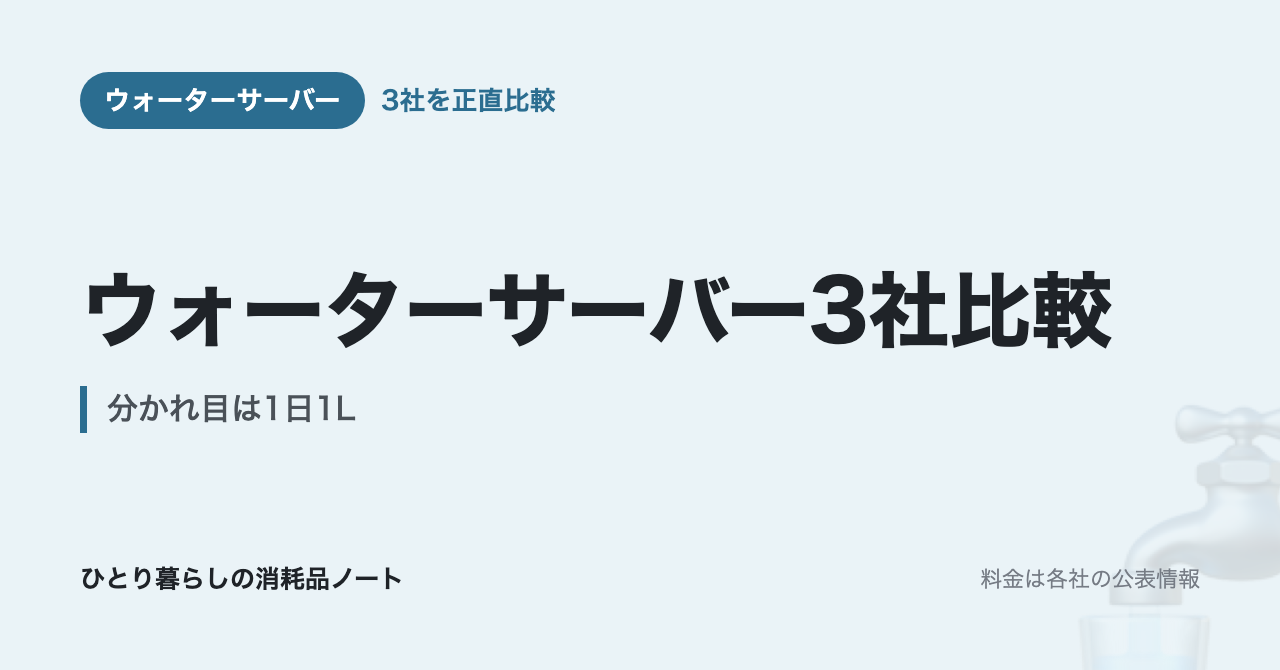
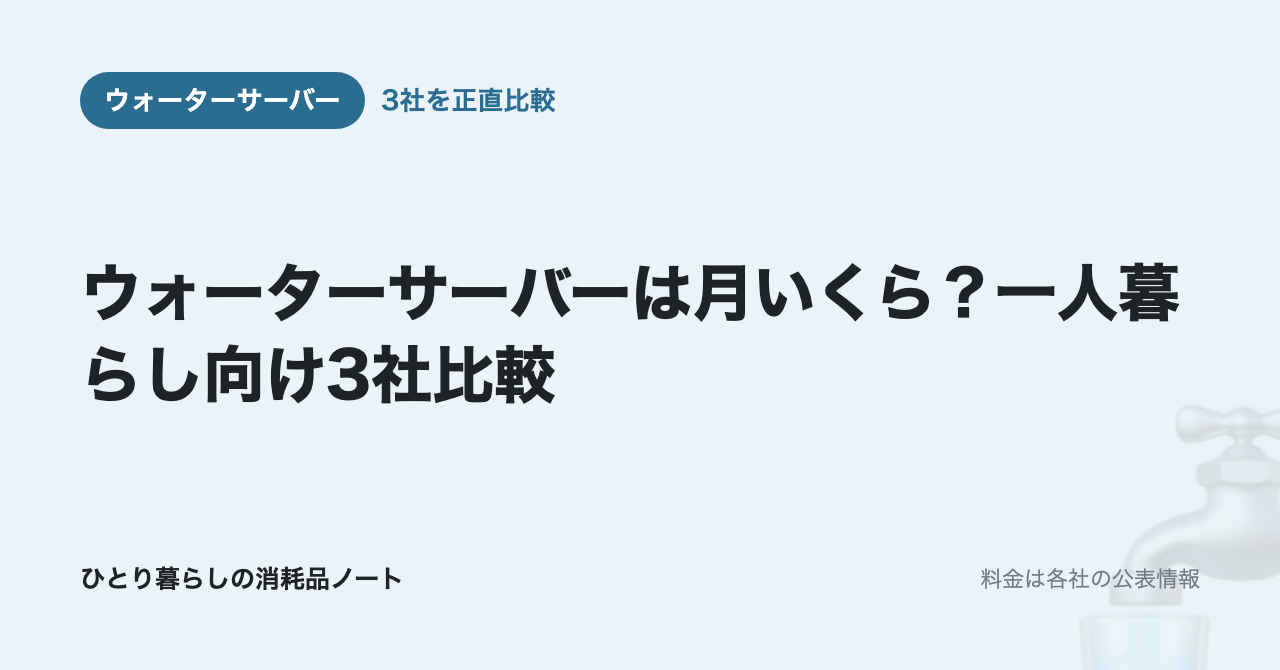
月額比較を書き直し版に差し替え（外部添削88点で合格）

Changed region(s): [[0.0625, 0.3881, 0.9375, 0.6567]]

diff --git a/content/water-server.md b/content/water-server.md
@@ -1,273 +1,157 @@
 ---
-title: ウォーターサーバー月額比較｜一人暮らしは1日1Lが分かれ目
+title: ウォーターサーバーは月いくら？一人暮らし向け3社比較
 description: >-
-  一人暮らしのウォーターサーバーは月額いくらか、3社で計算しました。飲み水だけなら月2,000円前後、料理にも使うと月4,400〜9,900円。水道水を注ぐ定額型とボトル配送型で、飲む量によって順位が入れ替わります。電気代・初期費用・解約費用も分けて載せています。
+  少量ならボトル配送、たくさん使うなら定額制が安くなります。3社の月額換算は、月12Lで約1,950円〜4,470円、1日2Lで約4,470〜9,860円（電気代・初期費用を除く）。電気代込みの試算と、途中でやめたときの費用も載せました。
 category: ウォーターサーバー
 date: '2026-08-14'
-updated: '2026-10-19'
+updated: '2026-10-24'
 keyword: ウォーターサーバー
 ---
 
-ウォーターサーバーの料金表は読みにくいです。水代・サーバーレンタル料・電気代・初期費用がばらばらに書いてあって、結局いくらかかるのかが分かりません。
+ウォーターサーバーの料金表は読みにくいです。水代・レンタル料・電気代・初期費用がばらばらに書いてあって、結局いくらかかるのかが分かりません。
 
-3社の条件を集めて年間コストに直したら、はっきりした答えが出ました。**分かれ目は1日1Lです。**
+先に結論です。**安い会社は、使う量とやめる時期で変わります。** 富士おいしい水とアクアバンクを比べると、1年でやめる場合は1日約1.5〜1.6L、2年使い切る場合は約1.0〜1.1Lが境目です。2年以上使うなら、1日約0.8L以上でLocca littaが富士おいしい水より安くなる試算です。
 
-- **1日1L以上飲むなら**、水道水を注ぐ**定額型**が安くなります
-- **それ以下なら**、使った分だけ払う**ボトル配送型**のほうが安くなります
+3社の料金を、使う量ごとに1か月あたりへ直しました。
 
-「飲み放題」は魅力的に見えますが、**たくさん飲む人だけが得をする仕組み**です。少量しか飲まない人には割高になります。以下、計算の中身を出します。
-
-## 一人暮らしのウォーターサーバーは、月額いくら？
-
-先に答えを出します。下の年間サービス料金を12で割った、1か月あたりの目安です。
-
-| 会社 | 飲み水だけ（月12L） | 料理にも使う（1日2L） | 電気代（月） |
+| 会社 | 飲み水だけ（月12L） | 料理にも使う（1日2L） | 別にかかる電気代（月） |
 |---|---|---|---|
-| 富士おいしい水 | 約2,270円 | 約7,920円 | 400〜1,200円 |
-| フレシャス ONEPIECE | 約1,940円 | 約9,860円 | 公式に記載なし |
-| アクアバンク | 4,378円（定額） | 4,378円（定額） | 約1,000円 |
+| 富士おいしい水 | 約2,270円 | 約7,920円 | 約1,000〜1,200円 |
+| フレシャス ONEPIECE | 約1,950円〜 | 約9,860円〜 | 記載なし |
+| アクアバンク | 約4,470円（定額） | 約4,470円（定額） | 約1,000円 |
 
-**「月額」として広告に出る金額は、会社ごとに中身が違います。** アクアバンクの4,378円は水代込みの定額です（別に1年ごとに維持管理費1,100円）。富士おいしい水とフレシャスは、水を使った分だけ払うので、月額は飲む量で決まります。
+> **表の金額は、水代と毎月の基本料金の1年分を12で割った月額換算です（電気代・初期費用は含みません）。** 月12Lは500mLのペットボトル約24本分（1日平均約0.8本）を飲み水に使う想定、1日2L（年730L）は料理にも使う場合の想定です。アクアバンクは維持管理費（年1,100円）を月割りで含み、フレシャスはレンタル料無料・休止手数料なしの場合です。浄水型はLocca litta（月2,380円）も後半で比べています。
 
-電気代は月額料金とは別にかかります。初期費用も別です（後述）。ペットボトルや浄水器と比べたい場合は、[一人暮らしの水代を4通りで比べた記事](/articles/water-cost)にまとめています。
+数字は各社の公式サイトで確認したものです（2026年10月19〜24日確認）。私は3社とも使っておらず、使い心地や水の味の感想は書いていません。
 
 ## 3社は「水をどこから持ってくるか」で分かれる
 
-料金の形が違うように見えて、根っこの違いはここです。
+- **ボトル配送型**（富士おいしい水・フレシャス）：採水地の水がボトルやパックで届きます。水代は使った分だけで、在庫の置き場所が要ります。富士おいしい水は、使わない月もウォーターサーバーケア（以下、ケア代）月880円がかかります
+- **浄水型（定額）**（この記事ではアクアバンク）：自宅の水道水をサーバー内でろ過します。水代がかからない代わりに月額が固定で、ボトルの受け取りも保管もありません
 
-**ボトル配送型**は、採水地の水をボトルやパックで届けてもらう方式です。**使った分だけ払う**ので、飲まない月は安く済みます。ただし在庫の置き場所が要ります。
+この違いが、使う量で順位が入れ替わる理由です。
 
-**水道水を注ぐ定額型**は、自宅の水道水をサーバーに入れて、内蔵フィルターでろ過する方式です。**水代がかからない代わりに月額が固定**されます。ボトルの受け取りも保管も不要です。
+## ウォーターサーバーの年間サービス料金（水代・基本料金のみ）
 
-今回の3社はこう分かれます。
+ここからの金額は、電気代と初期費用を含みません（次の章で足します）。富士おいしい水は関東〜関西エリアの12Lボトル1,388円で計算しました。ほかのエリアは1本1,468〜1,648円で、年間料金も変わります。
 
-- **富士おいしい水**：ボトル配送（12Lボトル）
-- **フレシャス ONEPIECE**：パック配送（7.2Lパック）
-- **アクアバンク**：水道水を注ぐ定額型
+| 会社 | 月12L | 1日2L |
+|---|---|---|
+| 富士おいしい水 | 約27,200円 | 約95,000円 |
+| フレシャス ONEPIECE | **約23,300円** | 約118,300円 |
+| アクアバンク | 53,636円 | **53,636円** |
 
-**この違いが、そのまま「飲む量で有利不利が変わる」理由**になっています。
+> **フレシャスの金額の前提**：レンタル料（通常月330円）が無料で、休止手数料（月1,100円）がかからない場合です。両方かかると月12Lで年約29,500円になり、富士おいしい水を上回ります。
 
-## 先に確認：ウォーターサーバーが向かないケース
-
-- **水道水の味だけが不満な人**：それなら浄水器で足ります。年1万円前後で済むので、ウォーターサーバーを検討する前にそちらを見てください
-- **置き場所が決まっていない人**：床置きタイプは幅30cm前後の設置スペースが要ります。ボトル配送型はさらに在庫の置き場所も必要です
-- **半年以内にやめるかもしれない人**：初期費用や解約時の返却費用が回収できません
-
-## 年間サービス料金は、飲む量で順位が入れ替わる
-
-**まず条件を揃えます。** 3社は初期費用も電気代も性質が違うので、混ぜると比較が壊れます。
-
-ここでは、利用量によって変わる水の料金と、定額で発生する基本料金を合わせた「年間サービス料金」を比べます。**初期費用と電気代は別の表に分けました。**
-
-> **使用量の前提**：この記事では、一人暮らしで「飲み水だけに使う場合」を**月12L**、「飲み水に加えて料理にも使う場合」を1日2L（年730L）として計算します。実際の使用量には個人差があります。
-
-**2Lを毎日飲む場合（年730L）**
-
-| 会社 | 年間サービス料金 |
-|------|------|
-| アクアバンク | **53,636円**（定額） |
-| 富士おいしい水 | 約95,000円 |
-| フレシャス ONEPIECE | 約118,300円 |
-
-**飲み水だけの場合（月12L・年144L）**
-
-| 会社 | 年間サービス料金 |
-|------|------|
-| フレシャス ONEPIECE | 約23,300円 |
-| 富士おいしい水 | 約27,200円 |
-| アクアバンク | 53,636円（定額） |
-
-**同じ3社なのに、飲む量で順位が入れ替わります。** 年間サービス料金で見ると、1日2Lならアクアバンクが最も安く、2位の富士おいしい水と年約41,400円の差。飲み水だけなら逆に最下位になり、1位との差は年約30,300円です。
-
-> **少量で使う場合の注意**：フレシャスは1回の配送が7.2Lパック×4個＝28.8L単位です。月12Lだと2〜3か月に1回の配送になり、自己都合で2か月連続して配送を止めると翌月以降は月1,100円（税込）の休止手数料がかかります（参考: [定期配送を一時お休み（スキップ）することはできますか？｜フレシャス公式](https://www.frecious.jp/faq/delivery/a12.php)）。上の約23,300円にこの手数料は含めていません。
-
-**少量の場合、フレシャスは富士おいしい水より年約3,900円安い計算です。** ただしフレシャスは電気代を公表していません（後述）。電気代まで含めると順位が変わる可能性があるので、**「少量ならこの1社」とは言い切れません**。
+1日2Lの想定では、アクアバンクと富士おいしい水の差は年約41,400円です。飲み水だけなら逆にアクアバンクが最も高く、フレシャスとの差は年約30,300円です。
 
 > **年間サービス料金の内訳**
-> - **富士おいしい水**：12Lボトル1,388円（関東〜関西エリア）＝1Lあたり約115.7円。これにウォーターサーバーケア880円/月＝年10,560円を加算（レンタルコースは加入必須）
+> - **富士おいしい水**：12Lボトル1,388円＝1Lあたり約115.7円。これにケア代年10,560円（レンタルコースは加入必須）
 > - **フレシャス ONEPIECE**：7.2Lパック4個で4,668円＝1Lあたり約162.1円
-> - **アクアバンク**：月額4,378円×12か月＋1年ごとの維持管理費1,100円。**飲む量に関係なく定額**（水代・サーバーレンタル・メンテナンス込み）
->
-> ボトル価格はエリアによって変わります。金額はいずれも2026年10月19日時点の公式サイト表示からの概算です。
+> - **アクアバンク**：月額4,378円×12か月＋維持管理費1,100円。維持管理費は請求時期が公式に書かれていないため、各利用年の初めにかかるとして計算しました。水道代は含みません
 
-### 1リットルあたりにすると、飲む量で5倍変わる
+### 月6Lの場合
 
-年間サービス料金を、使った量で割りました（初期費用と電気代を除く）。
+月6Lなど少量だと、富士おいしい水は年約18,900円、フレシャスは休止手数料を含めて年約16,600〜19,400円で、差は年2,300円以内です。
 
-| 会社 | 飲み水だけ（月12L） | 料理にも使う（1日2L） |
+## 電気代込みの年間試算（各社公表値を使用）
+
+サービス料金に電気代を足した年間の試算と、最初の1回だけの初期費用です。
+
+| 会社 | 電気代（年） | 電気代込み（月12L） | 電気代込み（1日2L） | 初期費用（最初の1回） |
+|---|---|---|---|---|
+| 富士おいしい水 | 約12,000〜14,400円 | 約39,200〜41,600円 | 約107,000〜109,400円 | 0円 |
+| フレシャス ONEPIECE | 記載なし | 算出できません | 算出できません | 3,121円（ONEPIECEデザイン代。ほかは公式ページに記載なし） |
+| アクアバンク | 約12,000円 | 約65,600円 | 約65,600円 | 3,300円（業者設置は12,100円） |
+
+> **表の条件**：電気代は各社の公表値です。アクアバンクは公式のよくある質問の「おおよそ1,000円/月位」、富士おいしい水はよくある質問の「平均で1,000円前後」とレンタルサーバーの仕様表の約1,200円を使いました。算出条件が会社ごとに同じとは限らないため、順位は目安です。年間の試算は初期費用を含まない2年目以降の金額です。富士おいしい水の初期費用は、料金表で契約時のサーバー送料が無料とされ、よくある質問に「個人でお申し込みのお客様は…サーバー返却のための費用以外のご負担はありません」とあるため0円としました。
+
+- **電気代の公表値を確認できたのは、アクアバンクと富士おいしい水の2社です。** フレシャスは公式サイトに記載がないため、電気代込みの順位は2社だけの比較です。1日2Lならアクアバンク、月12Lなら富士おいしい水が安くなります
+- **月12L前後では、フレシャスと富士おいしい水の順位は決められません。** サービス料金ではフレシャスが年約3,900円安いものの、レンタル料・休止手数料・電気代の差しだいで逆転します。1日2Lでは、フレシャスがサービス料金だけで年約23,300円高くなります
+- **アクアバンクの初年度**は、年間サービス料金53,636円に電気代約12,000円と登録事務手数料3,300円を足した約68,900円です
+
+## 3社の特徴
+
+### 富士おいしい水：水代は使った分だけ
+
+- **料金と契約**：12Lボトル1,388円（関東〜関西）とケア代月880円（加入必須）。サーバーレンタル料は0円です。配送は2本1セットで、一時停止はマイページから365日24時間、回数の制限なくできます
+- **向いている人**：使う月と使わない月の差が大きい人。初期費用をかけずに始めたい人。天然水を飲みたい人
+- **注意点**：解約金はありませんが、サーバーの返却費がかかります。ボトル価格はエリアで変わります
+
+### フレシャス ONEPIECE：デザインで選ぶ
+
+- **料金と契約**：7.2Lパック4個で4,668円（水はFRECIOUS富士の場合）。ONEPIECEデザイン代3,121円が初回のみかかります。デザインは手配書・3兄弟・チョッパー（2色）の4種類です（[フレシャス公式](https://www.frecious.jp/onepiece/)）
+- **向いている人**：好きなデザインのサーバーを置きたい人。飲み水だけに使う人。重いボトルを持ちたくない人
+- **注意点**：3年未満の解約金があります。レンタル料と休止手数料の条件は年間表の注記を見てください
+
+### アクアバンク：月額は高く、違約金は低い
+
+- **料金と契約**：月額4,378円の定額で、水代はかかりません（水道代・電気代は別。ほかに維持管理費が年1,100円）。サーバーのレンタルと年1回のメンテナンス・カートリッジ交換も月額に含まれます。最低2年契約で、2年後は1年ごとの自動更新です
+- **向いている人**：ボトルの受け取りと保管をなくしたい人のうち、1日2L前後使い、7〜11か月目にやめる可能性がある人。この試算では、6か月目までにやめるなら富士おいしい水、12か月目以降も使うならLocca littaの総額のほうが低くなります
+- **注意点**：飲み水だけ（月12L）だと、サービス料金でボトル配送の2社の約2〜2.3倍です。途中でやめたときの費用は「契約前に確認すること」の表のとおりです
+
+## 契約前に確認すること
+
+| 会社 | 契約の期間 | 途中でやめたときの費用 |
 |---|---|---|
-| 富士おいしい水 | 約189円 | 約130円 |
-| フレシャス ONEPIECE | 約162円 | 約162円 |
-| アクアバンク | 約372円 | 約73円 |
+| 富士おいしい水 | 最低利用期間の明記なし | 解約金なし。サーバー返却費のみ（梱包資材と送料を自分で負担して返送するか、回収を頼んで8,800円） |
+| フレシャス ONEPIECE | 最低利用期間の明記なし | 契約から3年未満は解約金40,000円（特定商取引法に基づく表記） |
+| アクアバンク | 最低2年（以降1年ごとの自動更新） | 2年未満は違約金20,000円。更新後の途中解約は15,000円。満了月は0円（満了日の2か月前までに連絡） |
 
-定額のアクアバンクは、使う量が多いほど1Lあたりが下がります。月12Lと1日2Lでは約5倍の差です。富士おいしい水は月880円のケア代を量で割るぶん、少量だと1Lあたりが上がります。
+置き場所は、床置きのサーバーで幅27〜31cm程度（各社の公表サイズ）です。ボトル配送型は在庫の置き場所も要ります。
 
-### 初期費用は0円〜12,100円で、別にかかります
+### やめる時期で境目が変わる
 
-| 会社 | 初期費用 |
-|------|------|
-| 富士おいしい水 | **0円** |
-| フレシャス ONEPIECE | 3,121円（ONEPIECEデザイン代・初回のみ） |
-| アクアバンク | 3,300円〜12,100円（登録事務手数料3,300円。業者設置なら設置作業料8,800円を追加） |
+アクアバンクを途中でやめると違約金がかかるため、富士おいしい水と費用が同じになる1日の使用量（以下、境目）が上がります。フレシャスは電気代の記載がないため、境目は計算できません。
 
-**アクアバンクは初年度だけ3,300円〜12,100円上乗せ**されます。初年度のサービス料金は約56,900円〜65,700円です（電気代を除く）。
+| アクアバンクをやめる月 | 富士おいしい水との境目 |
+|---|---|
+| 12か月目（違約金20,000円） | 1日約1.52〜1.57L |
+| 24か月目（満了月・違約金なし） | 1日約1.00〜1.06L |
 
-### 電気代は1社だけ分かりません
+短く言うと、**2年使い切るなら1日約1L、1年でやめるなら1日約1.5〜1.6L**が境目です。
 
-| 会社 | 電気代（年） |
-|------|------|
-| 富士おいしい水 | 4,800〜14,400円（月400〜1,200円） |
-| アクアバンク | 約12,000円（月約1,000円） |
-| フレシャス ONEPIECE | **公式サイトに記載が見当たりません** |
+> **計算のしかた**：電気代・登録事務手数料3,300円・維持管理費・違約金を含めて、その月までの総額を比べました。富士おいしい水の返却費は含めていません（回収を頼むと8,800円）。
 
-**ここが今回いちばん正直に書いておきたい点です。** フレシャスの電気代が分からないため、**フレシャスを含む総額の比較は成立しません**。
+## 浄水型を選ぶなら、会社と期間も比べる
 
-とくに少量の場合、フレシャスと富士おいしい水の差は約600円です。**電気代が年5,000円かかるだけで順位は逆転します。** 「フレシャスが少量で最安」とは言えません。
+浄水型3社（Locca litta・エブリィフレシャス・アクアバンク）も比べました。12か月目以降はLocca litta、11か月目まではアクアバンクの総額がいちばん低くなりました。
 
-**電気代を軽く見ないでください。** 年4,800〜14,400円は、飲み水だけの使い方なら**サービス料金の半分以上**にあたります。浄水器やペットボトルにはない費用なので、落とすと判断を誤ります。
+- **Locca litta（お得プラン）の条件**：月2,380円、電気代は月約587円（エコモード時約469円）、初期費用3,300円、6年契約。1年未満の解約金は60,000円で、1年ごとに1万円ずつ下がります（2026年10月24日確認）
+- **富士おいしい水との比較**：総額で下回るのは、2年使う場合で1日約0.8L以上からです。1日1Lなら20〜22か月目、月12Lなら48〜60か月目から下回ります
 
-## 分かれ目は1日1L前後（計算の中身）
+## ウォーターサーバーが要らないケース
 
-「たくさん飲むなら定額」と言っても、どこからが「たくさん」なのかが分からないと使えません。**定額のアクアバンクと釣り合う量**を計算しました。
+水道水の味やにおいを改善したいだけなら、浄水器も候補です。[浄水器カートリッジの比較](/articles/water-filter)で調べた商品は、カートリッジ代が年3,900円〜9,308円で、本体代は別にかかります。
 
-条件を揃えるため、**年間サービス料金のみ**（初期費用と電気代を除く）で比べます。アクアバンクの年額は53,636円（月額×12か月＋維持管理費1,100円）で固定です。
+ウォーターサーバーの主なメリットは、ボトル配送型なら水を家まで届けてもらえること、お湯と冷水をすぐ使えることです。天然水そのものを飲みたい場合も、浄水器では代わりになりません。
 
-**富士おいしい水と釣り合う量**
+## 結論：使う期間と量で決める
 
-```
-1Lあたり115.7円 × 年間L数 ＋ ケア費用10,560円 ＝ 53,636円
-→ 年間約372L ＝ 1日あたり約1.02L
-```
+**1年以内にやめるかもしれないなら、1日約1.5L未満は富士おいしい水が安くなります。2年以上使うなら、1日約0.8L以上で浄水型のLocca littaのほうが富士おいしい水より安くなります**。13〜23か月目は、使う期間が長いほど境目が下がります（電気代・初期費用・解約金込み、富士おいしい水の返却費は除く試算）。申し込む前に、公式サイトで最新の料金と解約条件を確かめてください。
 
-**フレシャス ONEPIECEと釣り合う量**
-
-```
-1Lあたり162.1円 × 年間L数 ＝ 53,636円
-→ 年間約331L ＝ 1日あたり約0.91L
-```
-
-**比べる相手によって、分かれ目は1日0.91Lと1.02Lにずれます。** 同じ数字にはなりません。ざっくり言えば**1日1L前後**ですが、**フレシャスと比べるならもう少し少ない量から定額が有利**になります。
-
-500mLのペットボトル2本分が1Lです。**料理や炊飯にも使うなら、1日1Lはすぐ超えます。** 飲むだけなら、たいてい下回ります。
-
-## たくさん飲むなら：アクアバンク
-
-**月額4,378円（税込）で、水は使い放題**です。水道水を注いでサーバー内でろ過する方式なので、ボトルの注文も受け取りも保管もありません。
-
-**年間サービス料金は53,636円で固定**されます（月額4,378円×12か月＋1年ごとの維持管理費1,100円）。1日2L飲もうが3L飲もうが変わりません。電気代（公式のよくある質問で月1,000円位＝年約12,000円）を足すと年約65,600円、初年度はさらに初期費用3,300円〜が乗ります。料理や炊飯にも使うなら、この定額が効いてきます。
-
-サーバーレンタル料とメンテナンス費用（年1回のカートリッジ交換を含む）も月額に含まれています。**月額料金にサーバーレンタルとメンテナンスが含まれる**のは、料金表を読む手間が減るという意味でも利点です。
-
-注意点は3つあります。
-
-- **初期費用がかかる**：登録事務手数料3,300円。業者に設置を頼むと設置作業料8,800円が加わり、12,100円です
-- **最低2年の契約**：2年未満でやめると違約金20,000円。2年後は1年ごとの自動更新で、更新後の途中解約は15,000円です。満了月にやめる場合は、満了日の2か月前までに連絡します
-- **飲む量が少ないと割高**：月12Lしか飲まないなら、同じ量をボトル配送で買うより約2倍高くつきます
-
-年払い・2年一括払いのプランは、途中でやめても違約金はかかりません。そのかわり、残りの月の返金もありません。
-
-なお、この商品は水素水を打ち出していますが、**この記事では健康面の効果については触れません**。判断材料として扱えるのは「水道水を注ぐ定額制で、水代がかからない」という仕組みの部分です。
-
-- **向いている人**：1日1L以上飲む人。料理にも使いたい人。ボトルの受け取りと保管をなくしたい人。
-- **向かない人**：飲み水だけの人。初期費用を抑えたい人。2年以内に引っ越すかもしれない人。
-
-## 使った分だけ払うなら：富士おいしい水
-
-**12Lボトル1,388円で、使った分だけ払う**方式です。初期費用もサーバーレンタル料も0円なので、**始めるときの負担がありません**。
-
-飲み水だけで月1本（12L）なら、年間サービス料金はおよそ27,200円です（ボトル代16,656円＋ウォーターサーバーケア年10,560円）。ケアはレンタルコースでは加入必須です。電気代を足すと32,000〜41,600円で、**電気代込みの定額型（年約65,600円）の5〜6割**に収まります。配送のスキップもマイページから24時間できるので、旅行や帰省で使わない月は止められます。
-
-天然水（富士山系）なので、水道水をろ過したものとは原水が違います。「水道水由来ではない水を飲みたい」という目的なら、ここが該当します。
-
-注意点は、**解約時にサーバーの返却費用がかかること**です。自分で返送すれば送料の自己負担のみ、業者に回収を頼むと8,800円です。「解約金なし」と書かれていても、**どちらかの負担は発生します**。
-
-- **向いている人**：使う月と使わない月の差が大きい人。初期費用0円で始めたい人。天然水がいい人。
-- **向かない人**：たくさん飲む人。ボトルの置き場所がない人。
-
-## 推しで選ぶなら：フレシャス ONEPIECE
-
-ここまでコストの話をしてきましたが、**それだけが選ぶ理由ではありません**。
-
-毎日目に入る場所に置く家電です。**性能とコストが許容範囲なら、好きなキャラクターのデザインを選ぶ**——これは十分に成立する判断だと思います。
-
-フレシャスのONEPIECEモデルは、デザインが4種類から選べます。
-
-- 手配書モデル
-- 3兄弟モデル
-- チョッパーモデル（SHINY WHITE）
-- チョッパーモデル（PEARL PINK）
-
-4種類のデザインは、[フレシャスの公式サイト](https://www.frecious.jp/onepiece/)で確認できます。サーバーレンタル料・送料は無料で、ONEPIECEデザイン代3,121円が初回のみかかります。
-
-コストは正直に書きます。**7.2Lパック4個で4,668円、1Lあたり約162円**。1Lあたりの単価では3社中もっとも高く、2Lを毎日飲むと年間12万円を超えます。**安さで選ぶ商品ではありません。**
-
-ただし**飲み水だけ（月12L）なら年約23,300円**まで下がります。富士おいしい水（約27,200円）より年約3,900円安い計算です。**ただし電気代が公表されていないため、電気代まで含めてどちらが安いかは判定できません。** 少量派で、なおかつデザインが気に入るなら候補になります。
-
-パックは軽量で、使い終わるとつぶして捨てられます。12Lボトルより1個あたりが軽いので、**交換の負担は小さいほうです**。
-
-- **向いている人**：デザインで選びたい人。飲み水だけに使う人。重いボトルを持ちたくない人。
-- **向かない人**：コストを最優先する人。たくさん飲む人。
-
-## 契約前に確認しておくこと
-
-料金表に出てこない項目です。ここを見ずに申し込むと、あとで想定が狂います。
-
-1. **初期費用**：アクアバンクは3,300円〜12,100円。フレシャスはデザイン代3,121円。富士おいしい水は0円
-2. **電気代**：月400〜1,200円、年に直すと4,800〜14,400円。月額料金とは別に発生します。**フレシャスは公式サイトに記載が見当たらないため、申し込み前に確認してください**
-3. **解約時の費用**：富士おいしい水は返却費用（自己返送なら送料のみ／業者回収8,800円）。アクアバンクは2年未満の解約で違約金20,000円（サーバー返送の送料は無料）。フレシャスは申し込み前に確認してください
-4. **設置スペース**：床置きは幅30cm前後。ボトル配送型は在庫の置き場所も要ります
-5. **エリアによる価格差**：富士おいしい水はボトル価格がエリア別です。上の計算は関東〜関西エリアの値です
-
-**3番はとくに見落とされます。** サーバー返却の方法と費用は会社によって異なります。今回はっきり確認できたのは富士おいしい水（自己返送なら送料のみ／業者回収8,800円）だけです。**他社についても、申し込み前に返却条件を確認してください。**
-
-## よくある質問
-
-**Q. 結局どれがいちばん安い？**
-A. 飲む量で変わります。年間サービス料金でみた損益分岐の目安は**1日約1L**ですが、比較相手によって**0.91L〜1.02L**まで差があります。少量利用ではフレシャスが富士おいしい水より年約3,900円安い計算ですが、フレシャスは電気代を公表していないため、電気代・デザイン・天然水かどうかまで含めて選んでください。
-
-**Q. 浄水器と比べてどう？**
-A. 本記事で比較したカートリッジは年3,900円〜9,308円で、本体代（3,630円〜4,191円）は別途かかります。ウォーターサーバーは「運ばなくていい」「お湯がすぐ出る」を買うものだと考えるほうが正確です。
-
-**Q. 水道水を注ぐタイプは、水道水と何が違う？**
-A. サーバー内蔵のフィルターでろ過されます。原水は水道水なので、天然水を飲みたい人はボトル配送型を選ぶことになります。
-
-**Q. 電気代はどれくらい？**
-A. 月400〜1,200円が目安です。エコモード搭載機なら下がります。年に直すと4,800〜14,400円で、無視できない金額です。
-
-**Q. ボトルの置き場所はどれくらい要る？**
-A. 12Lボトルは2Lペットボトル6本分の体積があります。まとめ買いすると玄関や廊下を占領するので、事前に置き場所を決めておいてください。
-
-**Q. 途中で解約したらどうなる？**
-A. 解約金がない会社でも、サーバーの返却費用（送料または回収料）はかかるのが一般的です。申し込み前に返却方法を確認してください。
-
-## 結論：まず1日にどれだけ飲むかを決める
-
-商品を比べる前に、**自分が1日何L飲むか**を決めてください。そこが決まれば答えは自動的に出ます。
-
-- **1日1L前後を超える（料理にも使う）** → <a href="https://px.a8.net/svt/ejp?a8mat=4BA5L7+37I4WQ+4K9C+TSYJL" rel="nofollow">アクアバンク</a><img border="0" width="1" height="1" src="https://www11.a8.net/0.gif?a8mat=4BA5L7+37I4WQ+4K9C+TSYJL" alt="">（定額・サービス料金年53,636円＋電気代約12,000円・最低2年契約）
-- **飲み水だけ（月12L程度）** → <a href="https://px.a8.net/svt/ejp?a8mat=4BA398+7NNQMY+51J0+67JUA" rel="nofollow">富士おいしい水</a><img border="0" width="1" height="1" src="https://www11.a8.net/0.gif?a8mat=4BA398+7NNQMY+51J0+67JUA" alt="">（都度払い・サービス料金年約27,200円＋電気代）
-- **少量で、デザインも大事** → [フレシャス ONEPIECE](https://www.frecious.jp/onepiece/)（サービス料金年約23,300円・電気代は非公表・デザイン4種類）
-
-**そして、そもそもウォーターサーバーが要るのかも一度考えてみてください。** 水道水の味だけが不満なら、[浄水器カートリッジの比較](/articles/water-filter)で足りる可能性があります。あちらで比べたカートリッジは1個975円〜2,327円、交換目安は3か月ごとなので、**カートリッジ代だけなら年3,900円〜9,308円**です（本体は別に3,630円〜4,191円かかります）。
-
-ウォーターサーバーで得られるもののうち、**浄水器では代わりにならないのは「重い水を運ばずに済む」「お湯がすぐ出る」「冷水がいつでもある」あたり**です。天然水そのものを飲みたい場合も、浄水器では代替できません。
-
-そこに年数万円の差額を払う価値があるかどうかが、本当の判断ポイントです。**水道水の塩素臭や味が気になることだけが目的なら、浄水器で十分な場合があります。**
+- **天然水を飲みたい、または下のLocca litta・アクアバンクの条件に当てはまらない** → ボトル配送型の富士おいしい水。解約金はありません。申し込み前に、配送エリアのボトル価格、ケア代（月880円）、返却方法（回収なら8,800円）を確認してください → <a href="https://px.a8.net/svt/ejp?a8mat=4BA398+7NNQMY+51J0+67JUA" rel="nofollow">富士おいしい水</a><img border="0" width="1" height="1" src="https://www11.a8.net/0.gif?a8mat=4BA398+7NNQMY+51J0+67JUA" alt="">
+- **2年以上使う見込みがあり、1日約0.8L以上** → 浄水型のLocca litta（お得プラン・月2,380円）。6年契約で、1年未満の解約金は60,000円です（条件は「浄水型を選ぶなら」の章） → [Locca litta](https://px.a8.net/svt/ejp?a8mat=4BA9HF+CLOCII+4M36+65U41)
+- **1日2L以上使い、7〜11か月目にやめる見込みがある** → 最低2年契約で、2年未満の違約金は20,000円です。この条件なら、富士おいしい水・Locca littaより総額が低くなる試算です → <a href="https://px.a8.net/svt/ejp?a8mat=4BA5L7+37I4WQ+4K9C+TSYJL" rel="nofollow">アクアバンク</a><img border="0" width="1" height="1" src="https://www11.a8.net/0.gif?a8mat=4BA5L7+37I4WQ+4K9C+TSYJL" alt="">（月4,378円）。6か月目までにやめるなら、2L使っても富士おいしい水のほうが安くなります
+- **少量で、デザインも大事** → [フレシャス ONEPIECE](https://www.frecious.jp/onepiece/)。3年未満の解約金40,000円があり、電気代の記載もないため、総額では富士おいしい水と比べられません
 
 ---
 
 ### あわせて読みたい
 
-[**浄水器カートリッジの比較**](/articles/water-filter) では、水道水をろ過する方式を1個あたりコストで比べています。年1万円前後で収まるので、コストだけで見るならこちらが本命です。
+浄水型に絞ったら、[**浄水型ウォーターサーバー3社比較**](/articles/water-purifier-server)で、6か月目・11か月目と、12〜72か月目の1年ごとの区切りでやめたときの各社の総額表と、業者設置にしたとき順位がどう変わるかを確認してください。
 
-水にこだわるなら、[**ドリップコーヒーの比較**](/articles/coffee-drip) もどうぞ。コーヒーの味は水で変わるので、サーバーの水で淹れると印象が変わります。
+ペットボトルや浄水器も含めた飲み水の費用は、[**一人暮らしの水代を4通りで比べた記事**](/articles/water-cost)にまとめています。
 
 ### 参考文献・情報源
 
-- 富士おいしい水のボトル代・ウォーターサーバーケア・返却費用：[選べる料金体系｜富士おいしい水](https://fujiwater.co.jp/price/menu/)（2026年10月19日確認）
+- 富士おいしい水のボトル代・ウォーターサーバーケア・サーバー送料：[選べる料金体系｜富士おいしい水](https://fujiwater.co.jp/price/menu/)（2026年10月19〜20日確認）
+- 富士おいしい水の電気代・配送の一時停止・返却方法と費用：[よくある質問｜富士おいしい水](https://fujiwater.co.jp/faq/)、サーバーの仕様：[ウォーターサーバー｜富士おいしい水](https://fujiwater.co.jp/server/)（2026年10月20日確認）
 - アクアバンクの月額・登録事務手数料・設置作業料・維持管理費・違約金：[ご利用料金｜アクアバンク](https://www.aqua-bank.co.jp/price/)（2026年10月19日確認）
-- アクアバンクの電気代（月1,000円位）：[よくある質問｜アクアバンク](https://www.aqua-bank.co.jp/faq02)
-- フレシャス ONEPIECEのパック代・デザイン代：[ワンピースウォーターサーバー｜フレシャス公式](https://www.frecious.jp/onepiece/)（2026年10月19日確認）
-- 電気代の目安：各社公式サイトおよびサーバー仕様表の記載
+- アクアバンクの電気代・サーバーの大きさ：[よくある質問｜アクアバンク](https://www.aqua-bank.co.jp/faq02)（2026年10月19〜20日確認）
+- フレシャス ONEPIECEのパック代・デザイン代・サーバーの大きさ：[ワンピースウォーターサーバー｜フレシャス公式](https://www.frecious.jp/onepiece/)（2026年10月20日確認）
+- フレシャスの休止手数料：[定期配送を一時お休み（スキップ）することはできますか？｜フレシャス公式](https://www.frecious.jp/faq/delivery/a12.php)、レンタルの解約金・休止手数料：[特定商取引法に基づく表記｜フレシャス](https://www.frecious.jp/tokutei/)（2026年10月20日確認）
+- Locca littaの月額・初期費用・解約金・電気代：[Locca公式サイト 料金詳細](https://locca.premium-water.net/price/)、[litta 商品ページ](https://locca.premium-water.net/product/litta/)（2026年10月24日確認）
+- 浄水型3社の期間別の総額：[浄水型ウォーターサーバー3社比較](/articles/water-purifier-server)
 
-*本記事の価格は執筆時点の各社公式サイトの表示にもとづく概算です。年間コストは記載の料金と一般的な使用量から算出したもので、実際の請求額は使用量・エリア・プランによって変わります。契約条件は変更される場合があるため、申し込み前に各社公式サイトで最新の情報をご確認ください。本記事はアフィリエイト広告を利用しています。*
+*本記事の金額は、各社の公式サイトの表示にもとづく概算です。年間の金額は、記載の料金と比較用の想定使用量から計算したもので、実際の請求額は使用量・エリア・プランによって変わります。申し込み前に各社の公式サイトで最新の条件を確認してください。本記事はアフィリエイト広告を利用しています。*
